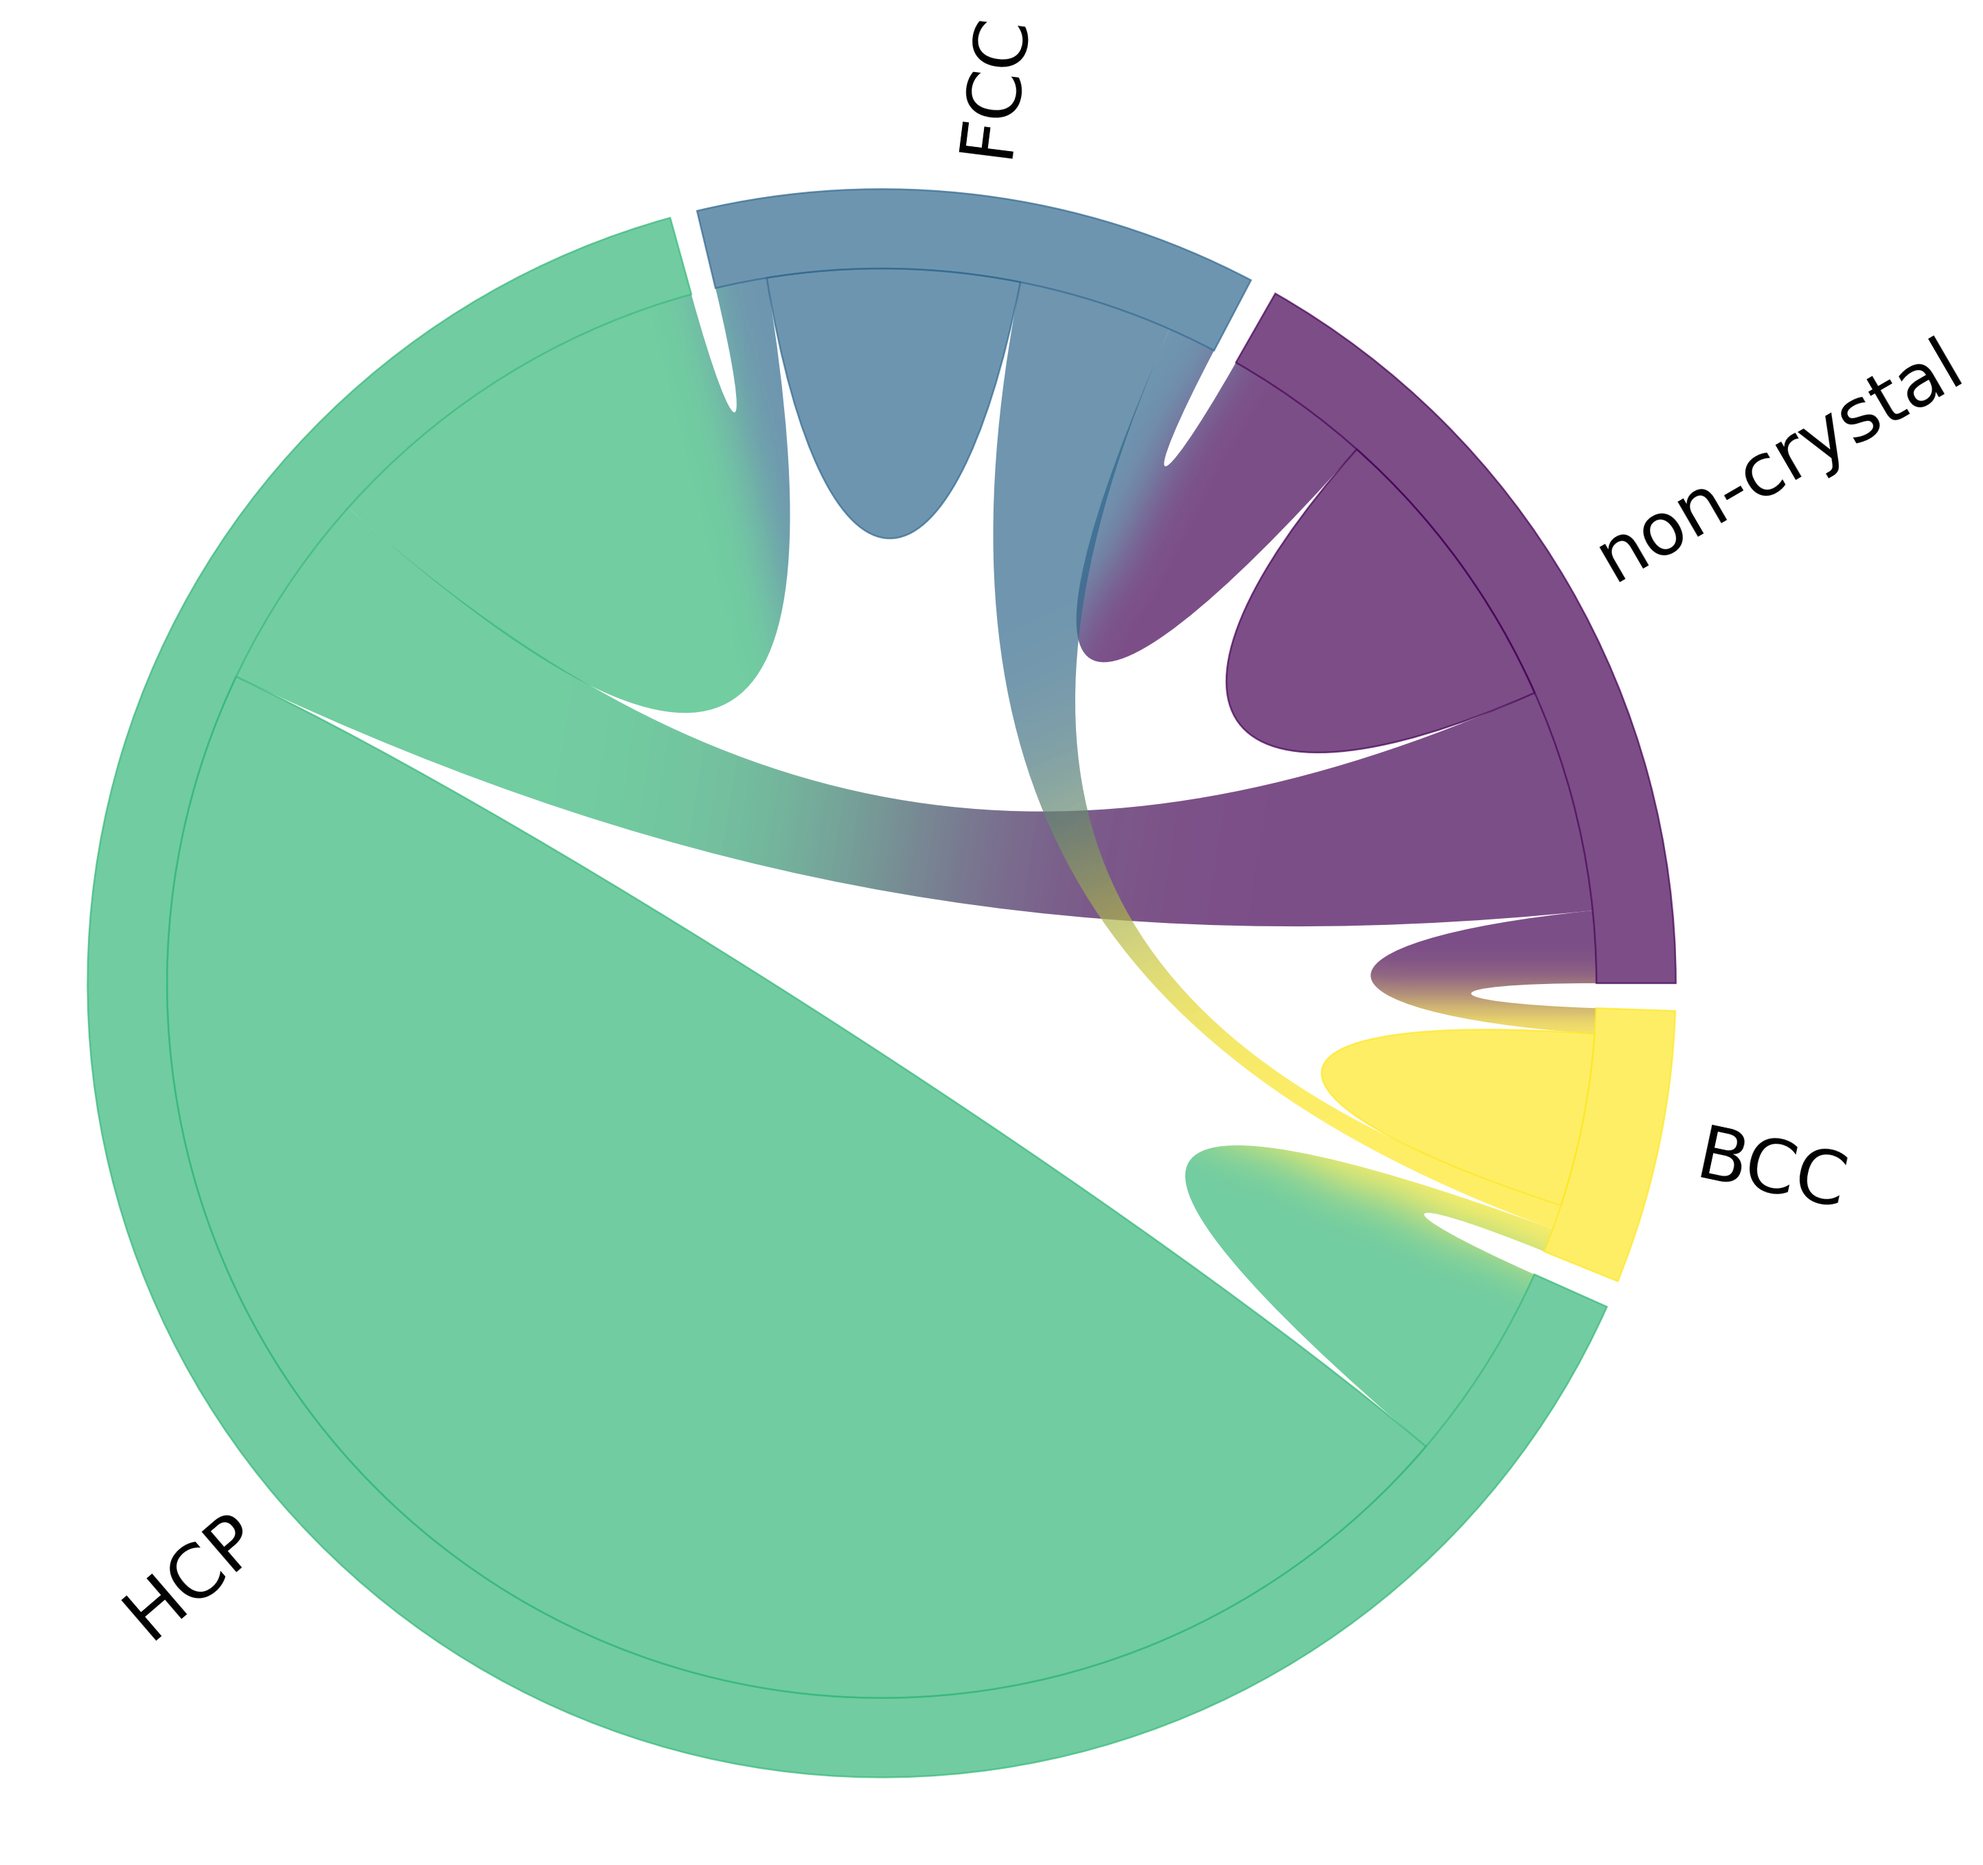
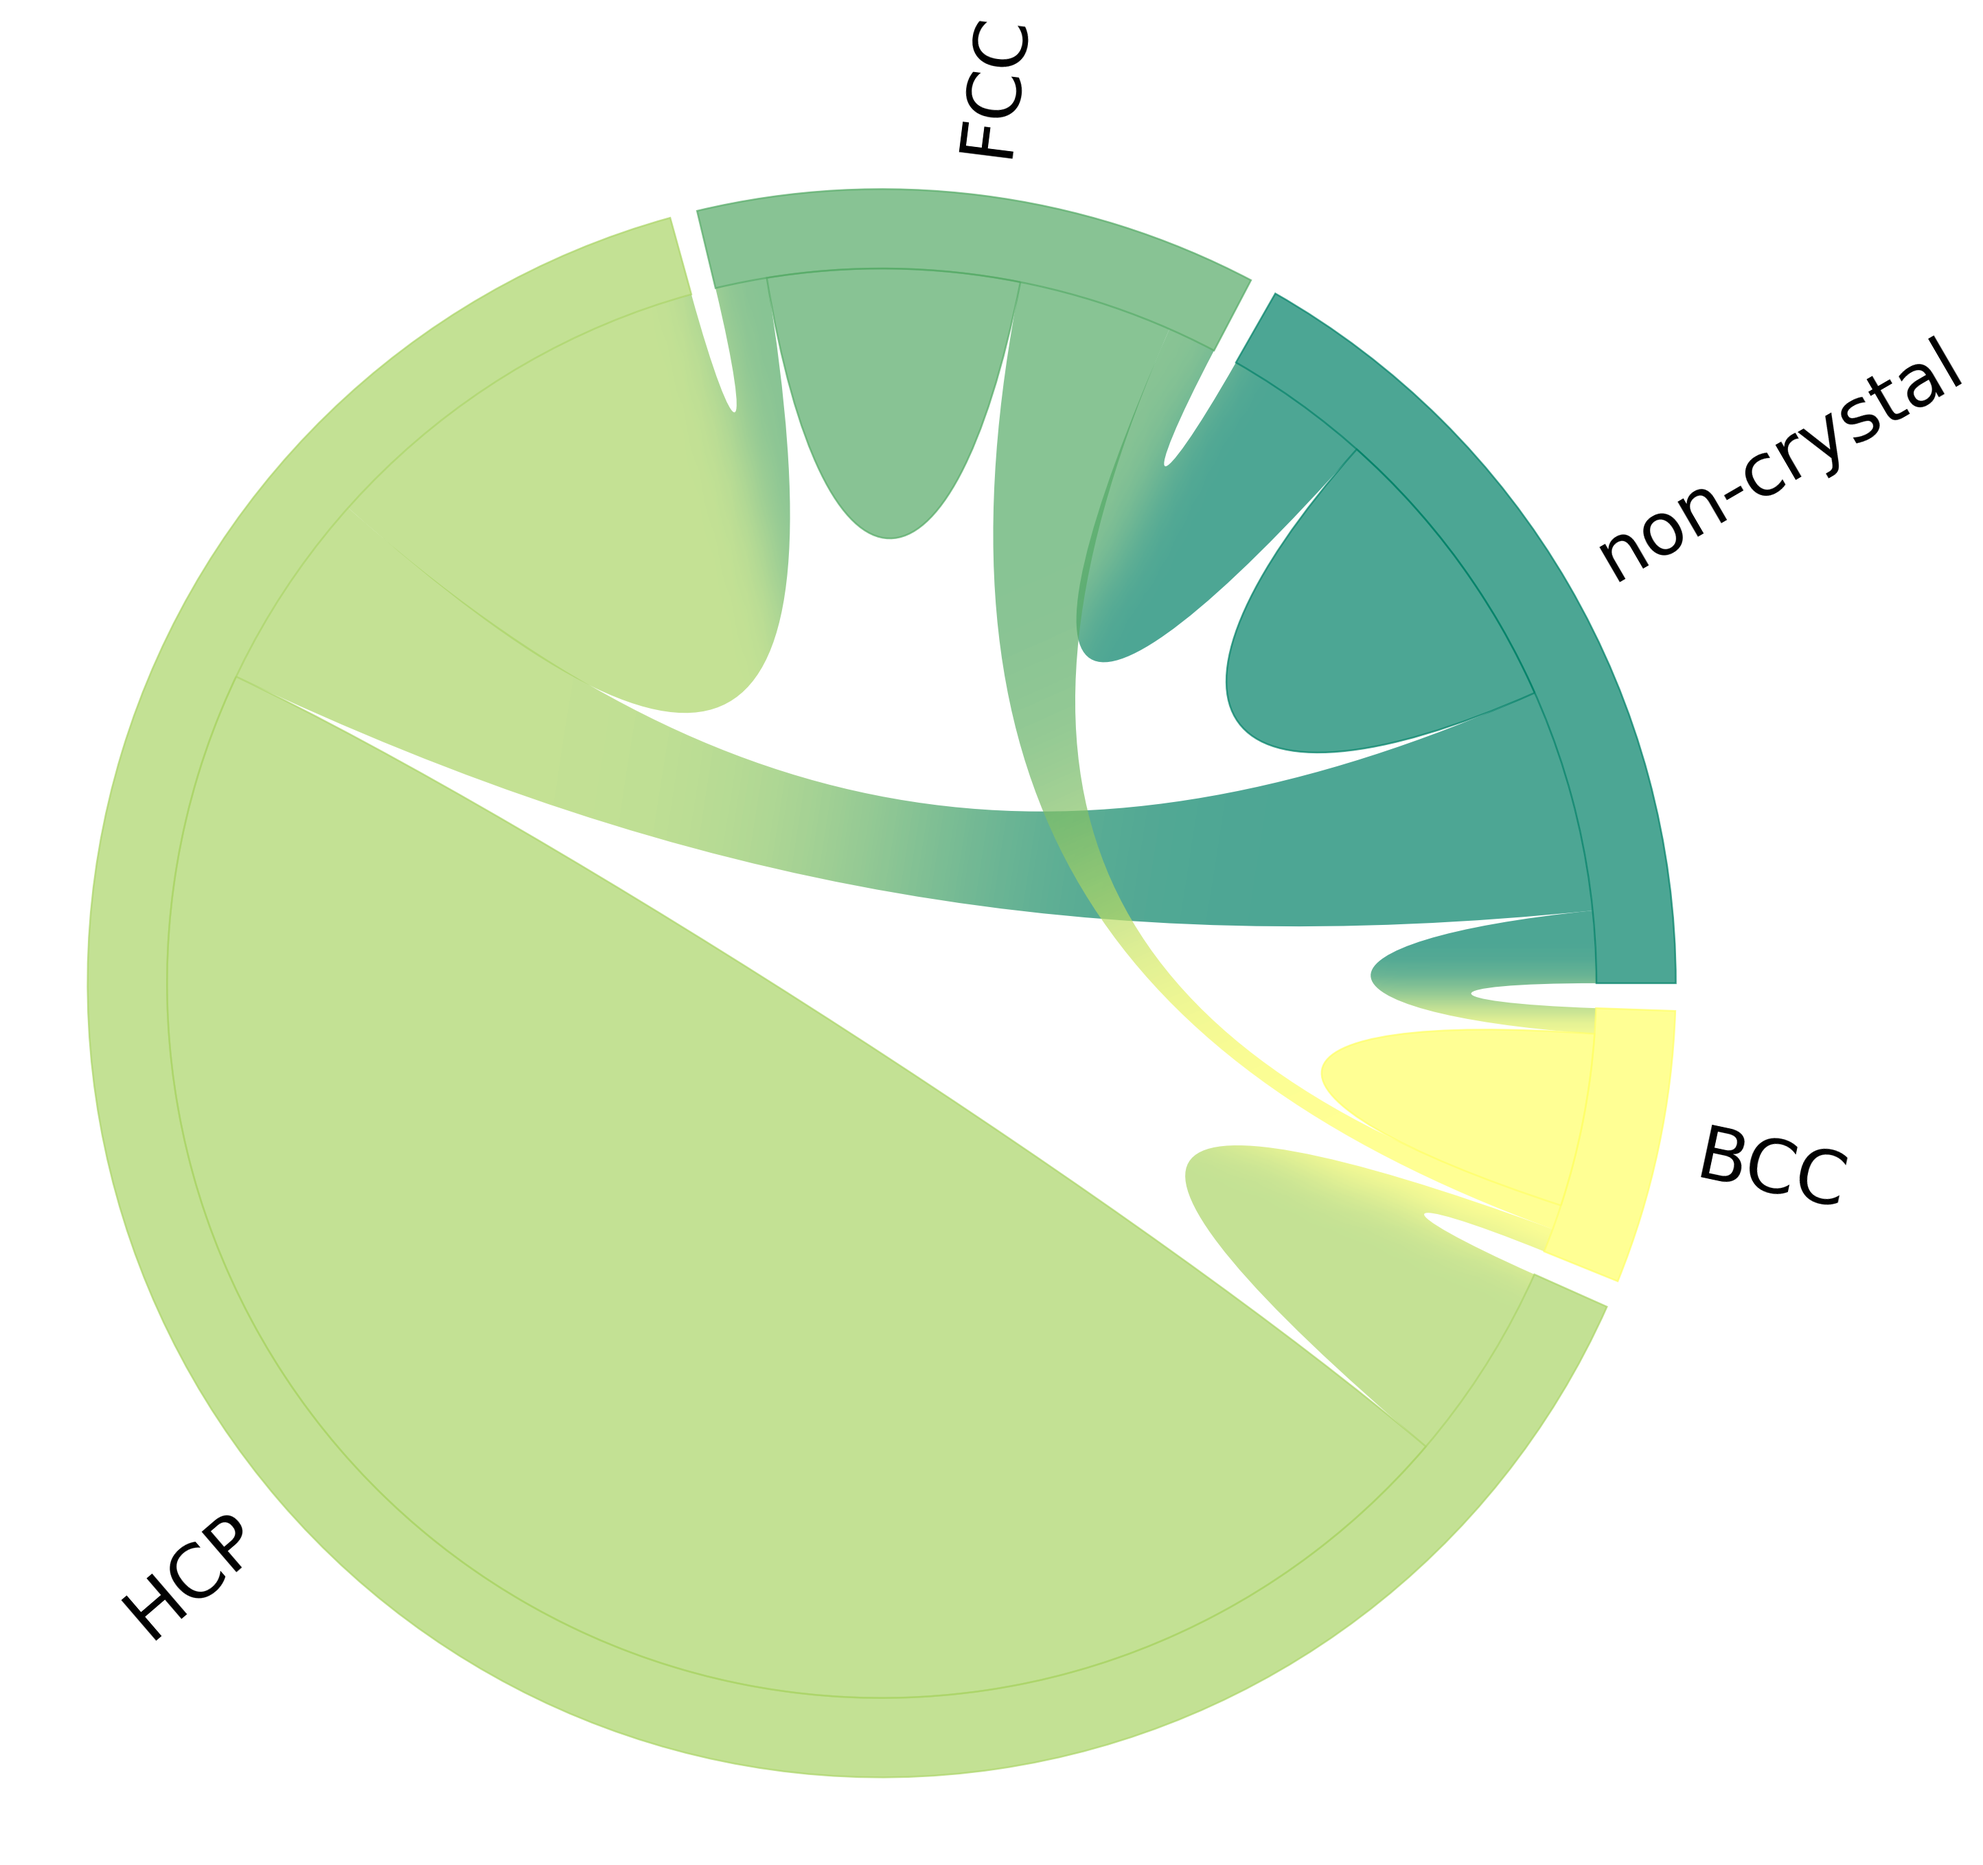
updated example and readme

diff --git a/example.py b/example.py
@@ -24,21 +24,21 @@ names = ['non-crystal', 'FCC', 'HCP', 'BCC']
 
 # plot different examples
 
-gradients = (True, False, False, True)
+grads = (True, False, False, True)                # gradient
+gaps  = (0.03, 0, 0.03, 0)                        # gap value
+sorts = ("size", "size", "distance", "distance")  # sort type
+cclrs = (None, None, "slategrey", None)           # chord colors
+nrota = (False, False, True, True)                # name rotation
+cmaps = (None, None, None, "summer")              # colormap
 
-gaps  = (0.03, 0, 0.03, 0)
-sorts = ("size", "size", "distance", "distance")
-cclrs = (None, None, "slategrey", None)
-nrota = (False, False, True, True)
-
-for grd, gap, sort, cc, nr in zip(gradients, gaps, sorts, cclrs, nrota):
-    chord_diagram(flux, names, gap=gap, use_gradient=grd, sort=sort,
-                  chord_colors=cc, rotate_names=nr)
+for grd, gap, srt, cc, nr, cm in zip(grads, gaps, sorts, cclrs, nrota, cmaps):
+    chord_diagram(flux, names, gap=gap, use_gradient=grd, sort=srt,
+                  cmap=cm, chord_colors=cc, rotate_names=nr)
 
     str_grd = "_gradient" if grd else ""
 
     plt.savefig(
-        "images/example{}_sort-{}.png".format(str_grd, sort),
+        "images/example{}_sort-{}.png".format(str_grd, srt),
                 dpi=600, transparent=True, bbox_inches='tight',
                 pad_inches=0.02)
 

diff --git a/README.md b/README.md
@@ -7,22 +7,24 @@ Python module to plot chord diagrams with [matplotlib](https://matplotlib.org).
 Note that the repository has this structure (everything is on root level) to
 be able to be used more easily as a git submodule.
 
-## Usage and requirements
+## Example
 
-Install using
+An example can be found in file `example.py`.
+Here is what the diagrams look like:
+* Upper left  >  no gradient, no gap, default colormap
+* Upper right >  gradient and gap, default colormap
+* Lower left  >  no gradient but gap, single color for chords, rotated names
+* Lower right >  gradient, no gap, "summer" colormap, rotated names
 
-    pip install mpl-chord-diagram
+<img src="images/example_sort-size.png" width="390"
+     alt="Chord diagram without gradient, sorted by size"><img
+     src="images/example_gradient_sort-size.png" width="390"
+     alt="Chord diagram without gradient, sorted by size">
 
-then, in python script or terminal:
-
-```python
-from mpl_chord_diagram import chord_diagram
-```
-
-The code requires ``numpy``, ``scipy`` and ``matplotlib``, which should be
-installed automatically. If necessary, you can also install them by calling
-
-    pip install -r requirements.txt
+<img src="images/example_sort-distance.png" width="390"
+     alt="Chord diagram without gradient, sorted by distance"><img
+     src="images/example_gradient_sort-distance.png" width="390"
+     alt="Chord diagram without gradient, sorted by distance">
 
 
 ## Main plot function
@@ -86,21 +88,23 @@ def chord_diagram(mat, names=None, order=None, width=0.1, pad=2., gap=0.03,
     """
 ```
 
-## Example
 
-An example can be found in file `example.py`.
-Here is what the diagrams look like (with and without gradient and gap,
-up and down are sorted respectively by domain size and distance):
+## Usage and requirements
 
-<img src="images/example_sort-size.png" width="390"
-     alt="Chord diagram without gradient, sorted by size"><img
-     src="images/example_gradient_sort-size.png" width="390"
-     alt="Chord diagram without gradient, sorted by size">
+Install using
 
-<img src="images/example_sort-distance.png" width="390"
-     alt="Chord diagram without gradient, sorted by distance"><img
-     src="images/example_gradient_sort-distance.png" width="390"
-     alt="Chord diagram without gradient, dorted by distance">
+    pip install mpl-chord-diagram
+
+then, in python script or terminal:
+
+```python
+from mpl_chord_diagram import chord_diagram
+```
+
+The code requires ``numpy``, ``scipy`` and ``matplotlib``, which should be
+installed automatically. If necessary, you can also install them by calling
+
+    pip install -r requirements.txt
 
 
 ## Contributors
